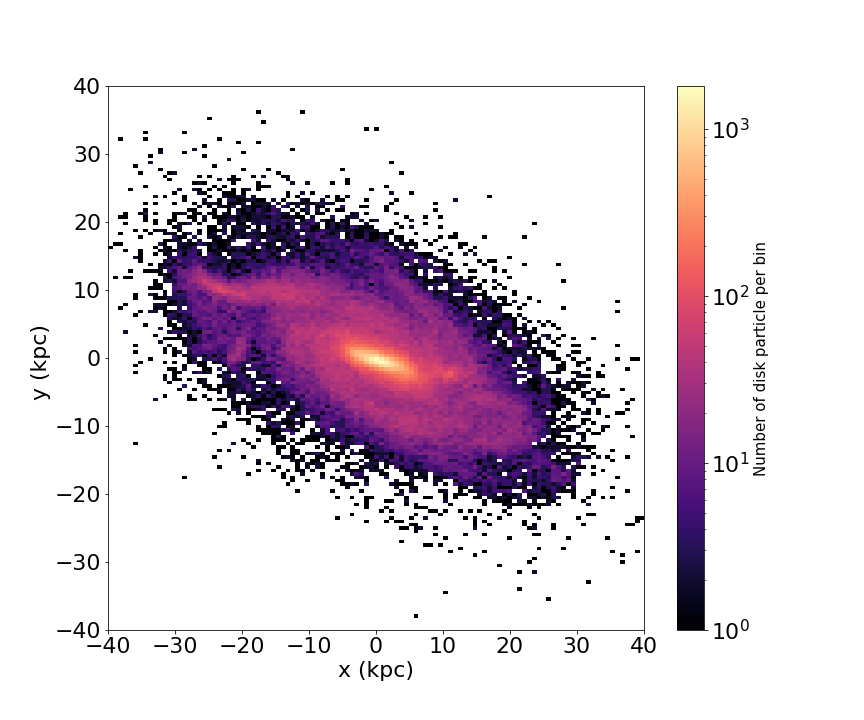
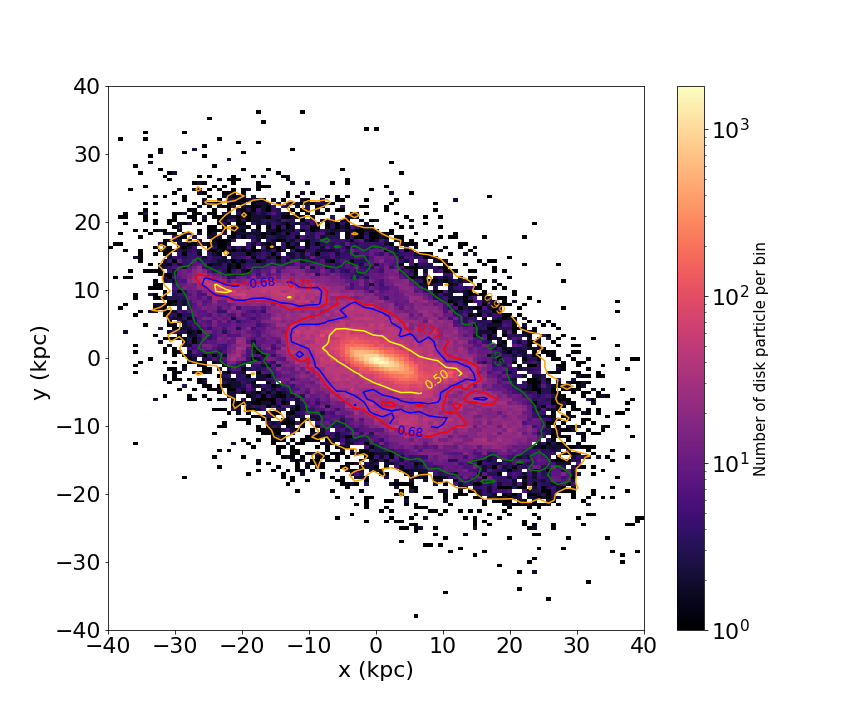
Lab7 Finish

diff --git a/Labs/Lab7/Lab7.py b/Labs/Lab7/Lab7.py
@@ -69,7 +69,7 @@ def density_contour(xdata, ydata, nbins_x, nbins_y, ax=None, **contour_kwargs):
 
     """
 
-    H, xedges, yedges = np.histogram2d(xdata, ydata, bins=(nbins_x,nbins_y), normed=True)
+    H, xedges, yedges = np.histogram2d(xdata, ydata, bins=(nbins_x,nbins_y), density=True)
     # NOTE : if you are using the latest version of python, in the above: 
     # instead of normed=True, use density=True
     
@@ -90,13 +90,14 @@ def density_contour(xdata, ydata, nbins_x, nbins_y, ax=None, **contour_kwargs):
     three_sigma = so.brentq(find_confidence_interval, 0., 1., args=(pdf, 0.99))
     
     # You might need to add a few levels
-
+    Fiftypercent = so.brentq(find_confidence_interval, 0., 1., args=(pdf, 0.50))
+    Seventy5percent = so.brentq(find_confidence_interval, 0., 1., args=(pdf, 0.75))
 
     # Array of Contour levels. Adjust according to the above
-    levels = [one_sigma, two_sigma, three_sigma][::-1]
+    levels = [Fiftypercent, one_sigma, Seventy5percent, two_sigma, three_sigma][::-1]
     
     # contour level labels  Adjust accoding to the above.
-    strs = ['0.68','0.95', '0.99'][::-1]
+    strs = ['0.50','0.68','0.75','0.95', '0.99',][::-1]
 
     
     ###### 
@@ -183,6 +184,7 @@ cbar.set_label("Number of disk particle per bin", fontsize=15)
 # x pos, y pos, contour res, contour res, axis, colors for contours.
 # remember to adjust this if there are other contours added
 # density_contour(pos1, pos2, res1, res2, ax=ax, colors=[])
+density_contour(xD, yD, 80, 80, ax = ax, colors=['orange', 'green', 'red', 'blue', 'yellow'])
 
 
 
@@ -272,7 +274,7 @@ def RotateFrame(posI,velI):
 
 # ADD HERE
 # compute the rotated position and velocity vectors
-
+rn, vn = RotateFrame(r, v)
 
 
 
@@ -283,15 +285,15 @@ fig, ax= plt.subplots(figsize=(15, 10))
 
 # plot the particle density for M31 , 2D histogram
 # ADD HERE
-
+plt.hist2d(rn[:,0], rn[:,2], bins=150, norm=LogNorm(), cmap='magma')
 
 cbar = plt.colorbar()
 cbar.set_label("Number of disk particle per bin", fontsize=15)
 
 
 # Add axis labels
-plt.xlabel(' ', fontsize=22)
-plt.ylabel(' ', fontsize=22)
+plt.xlabel('x (kpc)', fontsize=22)
+plt.ylabel('z (kpc)', fontsize=22)
 
 #set axis limits
 plt.ylim(-10,10)
@@ -302,8 +304,10 @@ label_size = 22
 matplotlib.rcParams['xtick.labelsize'] = label_size 
 matplotlib.rcParams['ytick.labelsize'] = label_size
 
+density_contour(rn[:,0], rn[:,2], 80, 80, ax = ax, colors=['orange', 'green', 'red', 'blue', 'yellow'])
+
 # Save to a file
-#plt.savefig('Lab7_EdgeOn_Density.png')
+plt.savefig('Lab7_EdgeOn_Density.png')
 
 
 
@@ -315,6 +319,7 @@ fig, ax= plt.subplots(figsize=(12, 10))
 
 # plot the particle density for M31 
 # ADD HERE
+plt.hist2d(rn[:,0], rn[:,1], bins=150, norm=LogNorm(), cmap='magma')
 
 cbar = plt.colorbar()
 cbar.set_label("Number of disk particle per bin", fontsize=15)
@@ -324,8 +329,8 @@ cbar.set_label("Number of disk particle per bin", fontsize=15)
 # ADD HERE
 
 # Add axis labels
-plt.xlabel('  ', fontsize=22)
-plt.ylabel('  ', fontsize=22)
+plt.xlabel('x (kpc)', fontsize=22)
+plt.ylabel('y (kpc)', fontsize=22)
 
 #set axis limits
 plt.ylim(-40,40)
@@ -336,8 +341,10 @@ label_size = 22
 matplotlib.rcParams['xtick.labelsize'] = label_size 
 matplotlib.rcParams['ytick.labelsize'] = label_size
 
+density_contour(rn[:,0], rn[:,1], 80, 80, ax = ax, colors=['orange', 'green', 'red', 'blue', 'yellow'])
+
 # Save to a file 
-# plt.savefig('Lab7_FaceOn_Density.png')
+plt.savefig('Lab7_FaceOn_Density.png')
 
 
 # # Part C
@@ -355,15 +362,15 @@ ax = plt.subplot(111)
 # coded by velocity along the 3rd axis
 # plt.scatter(pos1, pos2, c=vel1)
 # ADD HERE 
-
+plt.scatter(rn[:,1], rn[:,2], c=vn[:,0])
 
 #colorbar
 cbar = plt.colorbar()
-cbar.set_label('  ', size=22)
+cbar.set_label('Vx (km/s)', size=22)
 
 # Add axis labels
-plt.xlabel('  ', fontsize=22)
-plt.ylabel('  ', fontsize=22)
+plt.xlabel('y (kpc)', fontsize=22)
+plt.ylabel('z (kpc)', fontsize=22)
 
 
 
@@ -377,11 +384,11 @@ plt.ylim(-10,10)
 plt.xlim(-40,40)
 
 # Save file
-# plt.savefig('Lab7_EdgeOn_Vel.png')
+plt.savefig('Lab7_EdgeOn_Vel.png')
 
 
 # b) Create a phase diagram for the edge on disk (Position vs. Velocity) using a 2D Histogram.
-# 
+
 # c) Use the MassProfile Code to overplot the expected circular velocity from the mass profile. 
 
 
@@ -394,16 +401,26 @@ ax = plt.subplot(111)
 
 # Plot 2D Histogram for one component of  Pos vs Vel 
 # ADD HERE
-
+plt.hist2d(rn[:,0], vn[:,1], bins=150, norm=LogNorm())
+plt.colorbar()
 
 # Overplot Circular Velocity from the MassProfile Code
 # ADD HERE
+# Create MassProfile object for M31 using homework solution
+M31 = MassProfile('M31', 0)
 
+# array of positions
+rr = np.arange(0.01, 45, 0.1)
 
+# Circular velocity profile
+Vcirc = M31.circularVelocityTotal(rr)
+
+plt.plot(rr, Vcirc, color = 'r')
+plt.plot(-rr, -Vcirc, color = 'r')
 
 # Add axis labels
-plt.xlabel(' ', fontsize=22)
-plt.ylabel(' ', fontsize=22)
+plt.xlabel('x (kpc)', fontsize=22)
+plt.ylabel('Vy (km/s)', fontsize=22)
 
 
 
@@ -415,7 +432,7 @@ matplotlib.rcParams['ytick.labelsize'] = label_size
 
 
 # Save file
-# plt.savefig('Lab7_RotationCurve.png')
+plt.savefig('Lab7_RotationCurve.png')
 
 
 # # Part D: Exploring Spiral Structure
@@ -424,8 +441,8 @@ matplotlib.rcParams['ytick.labelsize'] = label_size
 
 # Determine the positions of the disk particles in 
 # cylindrical coordinates. (like in Lab 6)
-
-
+cyl_r = np.sqrt(rn[:,0]**2 + rn[:,1]**2) # radial
+cyl_theta = np.arctan2(rn[:,1], rn[:,0])*180/np.pi # theta in degrees
 
 
 # Make a phase diagram of R vs Theta
@@ -435,14 +452,14 @@ ax = plt.subplot(111)
 
 # Plot 2D Histogram of r vs theta
 # ADD HERE
+plt.hist2d(cyl_r, cyl_theta, bins=150, norm=LogNorm())
+plt.colorbar()
 
-
-
-
+density_contour(cyl_r, cyl_theta, 80, 80, ax = ax, colors=['orange', 'pink', 'red', 'blue', 'yellow'])
 
 # Add axis labels
-plt.xlabel(' ', fontsize=22)
-plt.ylabel(' ', fontsize=22)
+plt.xlabel('R (kpc)', fontsize=22)
+plt.ylabel(r'$\theta$ (deg)', fontsize=22)
 
 
 
@@ -454,5 +471,5 @@ matplotlib.rcParams['ytick.labelsize'] = label_size
 
 
 # Save file
-# plt.savefig('Lab7_SpiralPhase.png')
+plt.savefig('Lab7_SpiralPhase.png')
 
